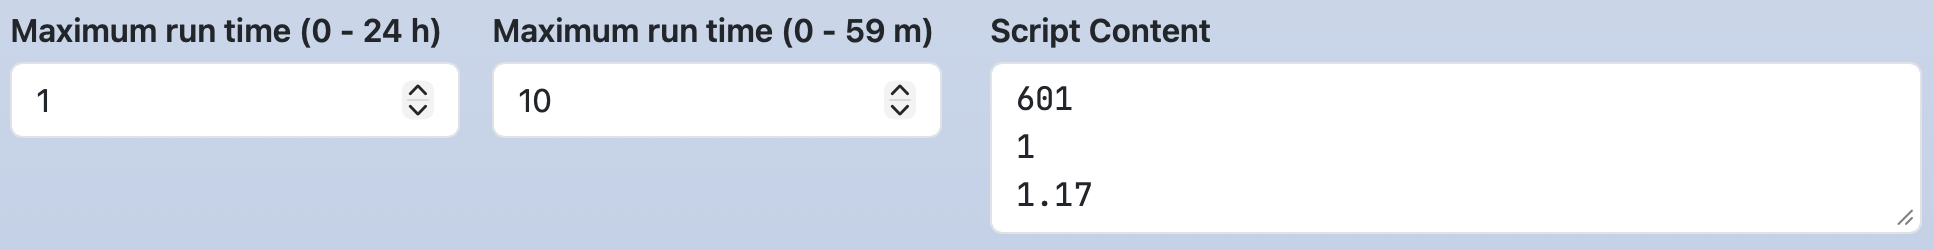
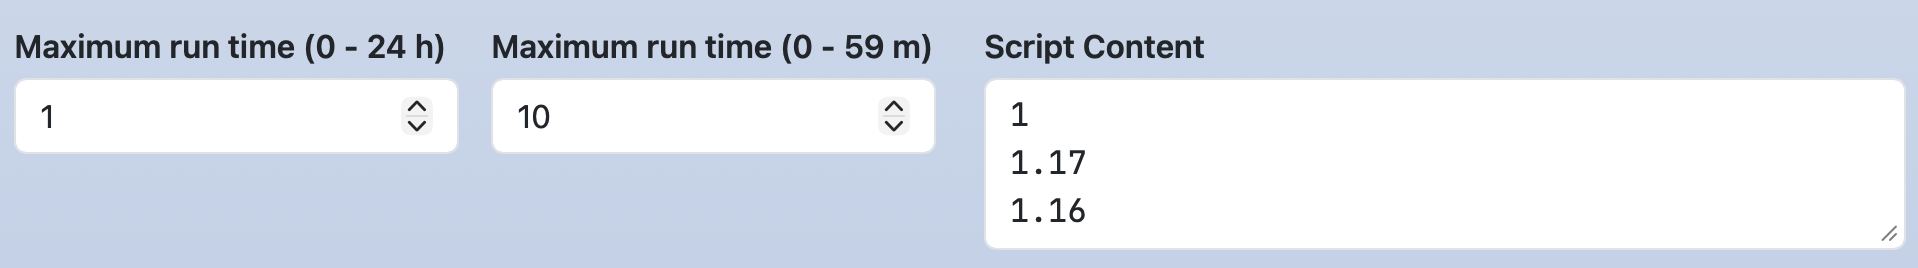
Allow calc() to specify OC_ROUNDING_ROUND, OC_ROUNDING_FLOOR, and OC_ROUNDING_CEIL

diff --git a/public/form.js b/public/form.js
@@ -611,13 +611,32 @@ function safeEval(expr) {
 
 function evalCalc(expr) {
   try {
-    const parts = expr.split(',').map(s => s.trim()); // e.g. ["1 + (2 * 3)", "3"]
-    if (parts.length === 2 && /^\d+$/.test(parts[1])) {
-      const value = safeEval(parts[0]);       // 7
-      const decimals = Number(parts[1]);      // 3
-      return Number(value).toFixed(decimals); // "7.000"
+    const parts = expr.split(",").map(s => s.trim()); // e.g. ["1 + (2 * 3)", "3", OC_ROUNDING_FLOOR]
+    const valueExpr = parts[0] ?? "";
+    if (valueExpr === "") return "";
+    const value = safeEval(valueExpr); // 7
+    const decimals = Number(parts[1]); // 3
+    const rounding = parts[2];         // OC_ROUNDING_FLOOR
+
+    // Check values
+    if (!Number.isFinite(value)) throw new Error("Expression did not evaluate to a finite number.");
+    if (!Number.isInteger(decimals) || decimals < 0) throw new Error("decimalPlaces must be a non-negative integer.");
+
+    const factor = 10 ** decimals;
+    const n = value * factor;  // Helper: avoid floating error a bit
+
+    let rounded;
+    if (rounding === "OC_ROUNDING_ROUND") {
+      rounded = (n >= 0 ? Math.floor(n + 0.5) : Math.ceil(n - 0.5)) / factor;
+    } else if (rounding === "OC_ROUNDING_FLOOR") {
+      rounded = Math.floor(n) / factor;
+    } else if (rounding === "OC_ROUNDING_CEIL") {
+      rounded = Math.ceil(n) / factor;
+    } else {
+      throw new Error(`Unknown roundingMode: ${rounding}`);
     }
-    return Math.floor(safeEval(expr));        // Round the result down to the nearest integer
+
+    return rounded.toFixed(decimals);
   } catch (e) {
     console.error(e.message);
     return "";
@@ -722,7 +741,6 @@ ocForm.showLine = function(selectedValues, line, keys, widgets, canHide, separat
     selectedValues.push(line);
   }
 }
-
 
 // Enable a widget.
 ocForm.enableWidget = function(key, num, widget, size) {

diff --git a/docs/application_ja.html b/docs/application_ja.html
@@ -406,22 +406,22 @@ script: |
     <img src="img/zeropadding.png" alt="Zero Padding">
     
     <p>
-      関数<code>calc(expr[, decimalPlaces])</code>は簡単な計算を行います。第2引数<code>decimalPlaces</code>は小数点以下の桁数です。第2引数を省略すると、小数点以下を四捨五入します。
+      関数<code>calc(expr[, decimalPlaces, roundingMode])</code>は、式<code>expr</code>を計算して結果を返します。第2引数<code>decimalPlaces</code>には、小数点以下の桁数を指定します。省略した場合は0になります。第3引数<code>roundingMode</code>には、丸め方式を指定します。<code>OC_ROUNDING_ROUND</code>（四捨五入）、<code>OC_ROUNDING_FLOOR</code>（切り捨て）、<code>OC_ROUNDING_CEIL</code>（切り上げ）のいずれかを指定できます。省略した場合は<code>OC_ROUNDING_ROUND</code>になります。
     </p>
   <pre>form:
   time:
     widget: number
     label:  [ Maximum run time (0 - 24 h), Maximum run time (0 - 59 m) ]
     size:   2
-    value:  [  1,  0 ]
+    value:  [  1, 10 ]
     min:    [  0,  0 ]
     max:    [ 24, 59 ]
     step:   [  1,  1 ]
 
 script: |
-  #{calc(time_1 + time_2 * 60)}
   #{calc(time_1 + time_2 / 60)}
-  #{calc(time_1 + time_2 / 60, 2)}</pre>
+  #{calc(time_1 + time_2 / 60, 2)}
+  #{calc(time_1 + time_2 / 60, 2, OC_ROUNDING_FLOOR)}</pre>
     <img src="img/calc.png" width="800" alt="Calculation">
     
 	<p>関数<code>dirname(FILE_PATH)</code>と関数<code>basename(FILE_PATH)</code>はディレクトリ名とファイル名を含むパス名から、<code>dirname()</code>はディレクトリ部分を、<code>basename()</code>はファイル部分だけを返します。

diff --git a/docs/application.html b/docs/application.html
@@ -438,24 +438,26 @@ script: |
   <img src="img/zeropadding.png" alt="Zero Padding">
 
   <p>
-    The <code>calc(expr[, decimalPlaces])</code> function performs basic arithmetic evaluation.
-    The second argument, <code>decimalPlaces</code>, specifies the number of digits after the decimal point.
-    If the second argument is omitted, the result is rounded to the nearest integer.
+    The function <code>calc(expr[, decimalPlaces, roundingMode])</code> evaluates the expression <code>expr</code> and returns the result.
+    The second argument, <code>decimalPlaces</code>, specifies the number of digits after the decimal point. If omitted, it defaults to 0.
+    The third argument, <code>roundingMode</code>, specifies the rounding method.
+    One of <code>OC_ROUNDING_ROUND</code> (round half up), <code>OC_ROUNDING_FLOOR</code> (round down),
+    or <code>OC_ROUNDING_CEIL</code> (round up) can be specified. If omitted, it defaults to <code>OC_ROUNDING_ROUND</code>.
   </p>
   <pre>form:
   time:
     widget: number
     label:  [ Maximum run time (0 - 24 h), Maximum run time (0 - 59 m) ]
     size:   2
-    value:  [  1,  0 ]
+    value:  [  1, 10 ]
     min:    [  0,  0 ]
     max:    [ 24, 59 ]
     step:   [  1,  1 ]
 
 script: |
-  #{calc(time_1 + time_2 * 60)}
   #{calc(time_1 + time_2 / 60)}
-  #{calc(time_1 + time_2 / 60, 2)}</pre>
+  #{calc(time_1 + time_2 / 60, 2)}
+  #{calc(time_1 + time_2 / 60, 2, OC_ROUNDING_FLOOR)}</pre>
     <img src="img/calc.png" width="800" alt="Calculation">
     
     <p>

diff --git a/lib/form.rb b/lib/form.rb
@@ -124,6 +124,27 @@ helpers do
     return html + "</div>\n"
   end
 
+  # Normalize calc(expr) or calc(expr, dp) to calc(expr, dp, OC_ROUNDING_ROUND)
+  def normalize_calc_args(expr)
+    args = expr.split(/\s*,\s*/)
+    case args.length
+    when 1
+      "#{args[0]}, 0, OC_ROUNDING_ROUND"
+    when 2
+      "#{args[0]}, #{args[1]}, OC_ROUNDING_ROUND"
+    else
+      expr
+    end
+  end
+
+  # Wraps an identifier for string interpolation.
+  # Constants starting with "OC_ROUNDING_" are returned as-is.
+  # Other identifiers are converted to "#{name}" (or "#{:name}" if prefixed).
+  def wrap_ident(colon, name)
+    return name if name.start_with?("OC_ROUNDING_")
+    "\#{#{colon ? ':' : ''}#{name}}"
+  end
+  
   # Output a JavaScript code based on a given yml, line in script, and matches data.
   def output_script_js(form, line, app_name, dir_name)
     # Remove leading and trailing whitespace(e.g. #{ time_1  } -> #{time_1})
@@ -142,7 +163,7 @@ helpers do
     line.gsub!(/\#\{:OC_SCRIPT_NAME\}/,     "\#\{:#{HEADER_SCRIPT_NAME}\}")
     line.gsub!(/\#\{OC_JOB_NAME\}/,         "\#\{#{HEADER_JOB_NAME}\}")
     line.gsub!(/\#\{:OC_JOB_NAME\}/,        "\#\{:#{HEADER_JOB_NAME}\}")
-    
+
     # Escape backslashes (`\`) by replacing each `\` with `\\`.
     # This ensures the backslashes are properly interpreted in JavaScript strings.
     line.gsub!("\\", "\\\\\\\\")
@@ -152,7 +173,6 @@ helpers do
     line.gsub!("'", "\\\\'")
 
     matches = line.scan(/\#\{.+?\}/)
-
     return "  selectedValues.push(\'#{line}\');\n" if matches.empty?
 
     keys = matches.flat_map do |str|
@@ -174,30 +194,32 @@ helpers do
 
     line = line.gsub(/\#\{(zeropadding|calc|dirname|basename)\((.*?)\)\}/) do
       func = Regexp.last_match(1)       # "zeropadding", "calc", "dirname", "basename"
-      expr = Regexp.last_match(2) || "" # e.g. "calc(time_1 * time_2), 2"
+      expr = Regexp.last_match(2) || "" # e.g. "time_1 * time_2, 2"
+      expr = normalize_calc_args(expr) if func == "calc"
 
       # --- special case: zeropadding(calc(...), N) ---
       if func == "zeropadding" && expr =~ /\A\s*calc\((.*)\)\s*,\s*(.*)\z/
-        calc_inner = Regexp.last_match(1)  # "time_1 * time_2"
-        second_arg = Regexp.last_match(2).strip  # "2"
-        
+        calc_expr = Regexp.last_match(1)           # "time_1 * time_2"
+        calc_expr = normalize_calc_args(calc_expr) # "time_1 * time_2, 0, OC_ROUNDING_ROUND"
+        z_second_arg = Regexp.last_match(2).strip  # "2"
+  
         # Expand only inside calc(...)
-        replaced_inner = calc_inner.gsub(/(:)?([A-Za-z_]\w*)/) do
+        replaced_calc_expr = calc_expr.gsub(/(:)?([A-Za-z_]\w*)/) do
           colon = Regexp.last_match(1)
           name  = Regexp.last_match(2)
-          "\#\{#{colon ? ':' : ''}#{name}\}"
+          wrap_ident(colon, name)
         end
         
-        next "\#{zeropadding(calc(#{replaced_inner}), #{second_arg})}"
+        next "\#{zeropadding(calc(#{replaced_calc_expr}), #{z_second_arg})}"
       end
-      
+
       # --- normal case: calc(...), dirname(...), basename(...), zeropadding(...) ---
       replaced = expr.gsub(/(:)?([A-Za-z_]\w*)/) do
         colon = Regexp.last_match(1)
         name  = Regexp.last_match(2)
-        "\#\{#{colon ? ':' : ''}#{name}\}"
+        wrap_ident(colon, name)
       end
-      
+
       "\#\{#{func}(#{replaced})\}"
     end
 

diff --git a/run.rb b/run.rb
@@ -13,7 +13,7 @@ set :environment, :production
 set :erb, trim: "-"
 
 # Internal Constants
-VERSION                = "1.8.0"
+VERSION                = "1.9.0-dev"
 SCHEDULERS_DIR_PATH    = "./lib/schedulers"
 HISTORY_ROWS           = 10
 JOB_STATUS             = { "queued" => "QUEUED", "running" => "RUNNING", "completed" => "COMPLETED", "failed" => "FAILED" }

diff --git a/CHANGELOG.md b/CHANGELOG.md
@@ -1,5 +1,12 @@
 # Changelog
 
+## [1.9.0] - 2026-??
+### Add
+### Changed
+- Allow calc() to specify OC_ROUNDING_ROUND, OC_ROUNDING_FLOOR, and OC_ROUNDING_CEIL.
+
+### Fixed
+
 ## [1.8.0] - 2025-12-26
 ### Add
 - Add the function to define multiple login_nodes and ssh_wrappers in conf.yml in [25](https://github.com/RIKEN-RCCS/OpenComposer/discussions/25).
